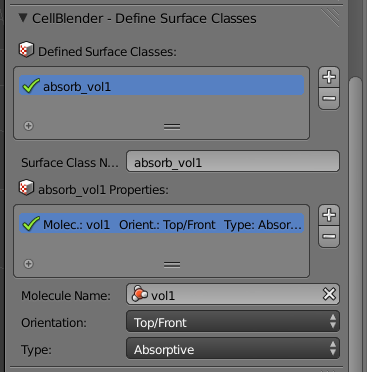
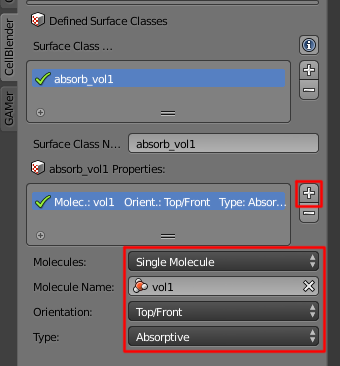
Update surface classes tutorial.

diff --git a/surface_classes.rst b/surface_classes.rst
@@ -6,12 +6,6 @@ Introduction to Surface Classes
 
 .. Git Repo SHA1 ID: 3520f8694d61c81424ff15ff9e7a432e42f0623f
 
-.. note::
-
-    The simulations and visualizations in this tutorial were generated using
-    Blender 2.70a and CellBlender 1.0. It may or may not work with other
-    versions.
-
 Surface classes allow various properties (e.g. **Absorptive**, **Transparent**)
 to be applied to surfaces, which can affect specified molecules. Later, in the
 :ref:`surf_class_rxns` section, we will also see how surface classes can also
@@ -54,15 +48,13 @@ Parameters**, but we will skip that step to save time.
 Add Cube to Model Objects list
 ---------------------------------------------
 
-With the default **Cube** selected, change into **Edit Mode** by hitting
-**Tab** in the **3D View Editor**. Make sure all the faces of the **Cube** are
-selected and hit **Ctrl-t** to triangulate it. Change back into **Object
-Mode**.
+* Hit the **Model Objects** button.
+* Hit the Cube button and then hit the **+** button to add it to the 
+  **Model Objects** list.
+* Under the **Cube Object Options** panel, select **Wire** from the drop-down
+  menu.
 
-In the **Object** Context, under the **Display** panel, set the **Maximum Draw
-Type** to **Wire**.
-
-Then add the **Cube** to the **Model Objects** list.
+.. image:: ./images/surf_class/add_cube.png
 
 .. _surf_class_add_vol_mol:
 
@@ -82,60 +74,42 @@ Add a Volume Molecule and Release Site.
 Add a Plane and Surface Region
 ---------------------------------------------
 
-Move your cursor to the **3D View Editor**, hit **Shift-a**, and select
-**Plane**. Hit **s** to scale the plane, **1.1** to specify the scaling factor,
-and **Enter** to confirm. You should now have a plane going through the middle
-of  your cube.
+* Hit the **Model Objects** button and then the Plane button. You should now
+  have a plane going through the middle of your cube.
+* With the cursor in the 3D View Window, hit **s**, then **1.1** to specify the
+  scaling factor, and **Enter** to confirm.
+* Hit the **+** button to actually add it to the Model Objects list.
 
+.. image:: ./images/surf_class/add_plane.png
 .. image:: ./images/surf_class/plane_in_cube.png
 
-We will now create a surface region for the new plane. Begin by hitting the
-**Object** button on the **Properties** Editor.
+We will now create a surface region for the new plane.
 
-.. image:: ./images/object_button.png
+* Under the **Defined Surface Regions for Plane** panel, hit **+**.
+* Change the default name to **inside**.
+* Change into **Edit Mode** by hitting **Tab** in the **3D View Editor**.
+* Click **Assign**.
 
-Under the **Surface Regions** panel, hit **+**. Change the default name to
-**inside**.
+.. image:: ./images/surf_class/add_inside.png
 
-.. image:: ./images/surf_class/inside_surf_reg.png
-
-Change into **Edit Mode** by hitting **Tab** in the **3D View Editor**.
- 
-.. image:: ./images/surf_class/plane_in_cube_edit.png
-
-With the face of the plane selected, hit **Ctrl-t** to triangulate it.
-
-.. image:: ./images/surf_class/plane_in_cube_tri.png
-
-Then, click **Assign** under **Define Surface Regions**.
-
-.. image:: ./images/surf_class/assign_inside.png
-
-Change back into **Object Mode** by hitting **Tab**. Hit the **Scene** button
-on the **Properties** Editor.
-
-.. image:: ./images/scene_button.png
-
-With the **Plane** selected, hit **+** under the **Model Objects** panel.
-
-.. image:: ./images/surf_class/model_objects.png
+.. note:: the Assign button will only appear if you are in Edit mode.
 
 .. _surf_class_add_sc:
 
 Add the Surface Class
 ---------------------------------------------
 
-Expand the **Define Surface Classes** panel. Then, hit the **+** button to
-create a new surface class called **Surface_Class**. Rename it to
-**absorb_vol1**.
+Hit the **Surface Classes** button. Then, hit the **+** button to create a new
+surface class called **Surface_Class**. Rename it to **absorb_vol1**.
 
 .. image:: ./images/surf_class/default_surface_class.png
 
 Hit the **+** button beside the empty **absorb_vol1 Properties** list.
 
+* Select **Single Molecule** from the **Molecules** field.
 * Select **vol1** from the **Molecule Name** field.
-* Leave the **Orientation** set to **Top/Front**.
-* Leave **Type** set to **Absorptive**. 
+* Set the **Orientation** to **Top/Front**.
+* Set the **Type** to **Absorptive**. 
 
 .. image:: ./images/surf_class/absorb_vol1.png
 
@@ -144,11 +118,11 @@ the **absorb_vol1** surface class to be destroyed.
 
 .. _surf_class_mod_surf_reg:
 
-Modify the Surface Regions
+Assign the Surface Class
 ---------------------------------------------
 
 Now that we have created our surface class, we need to assign it to our mesh.
-Expand the **Modify Surface Regions** panel. Hit the **+** to begin modifying a
+Expand the **Assign Surface Classes** panel. Hit the **+** to begin modifying a
 surface region.
 
 * In the **Surface Class Name** field, select **absorb_vol1**.
